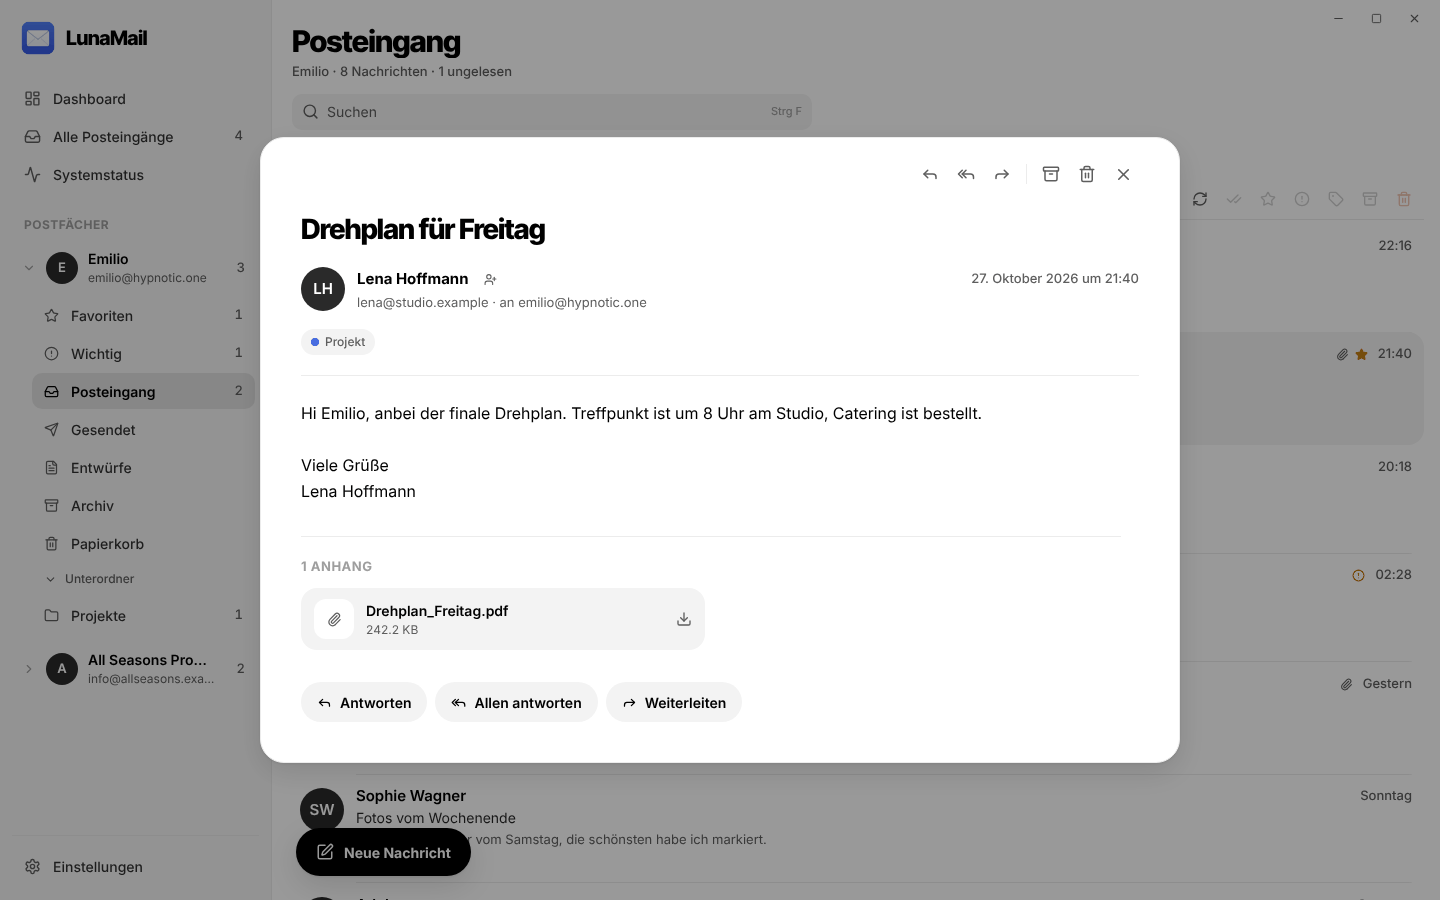
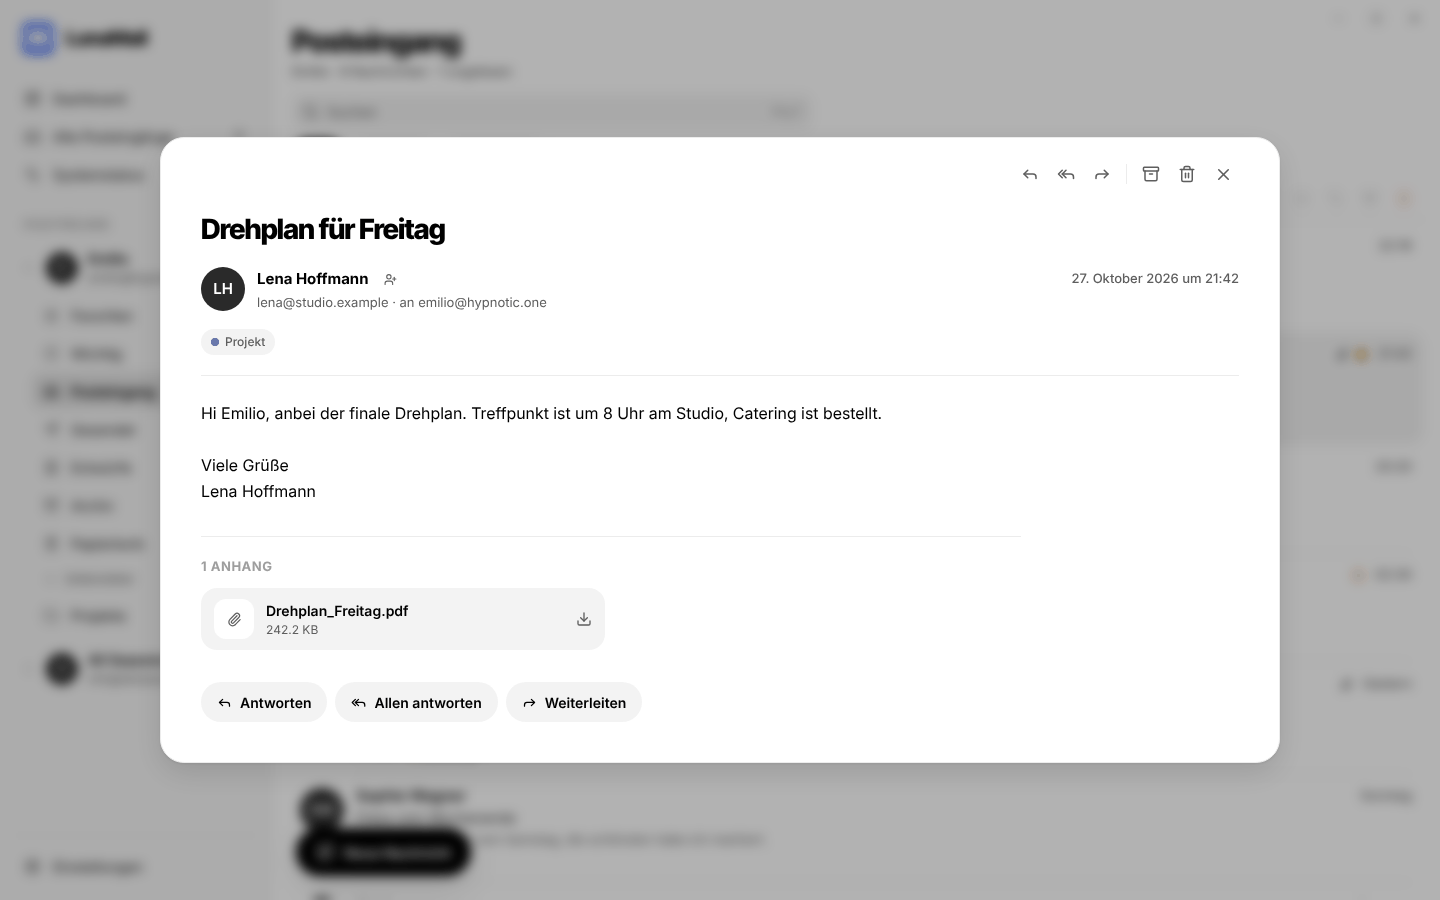
Desktop: Mail-Modal breiter, Hintergrund leicht unscharf
Claude-Session: https://claude.ai/code/session_015oPpCaztH1SDtHgZpMPuwL

diff --git a/src/components/MailReader.tsx b/src/components/MailReader.tsx
@@ -51,12 +51,12 @@ export function MailReader() {
   }
 
   return (
-    <div className="mail-reader-backdrop fixed inset-0 z-[60] flex items-center justify-center bg-scrim/40 p-6 sm:p-10" onClick={closeEmail}>
+    <div className="mail-reader-backdrop fixed inset-0 z-[60] flex items-center justify-center bg-scrim/30 p-6 backdrop-blur-[6px] sm:p-8" onClick={closeEmail}>
       <aside
         role="dialog"
         aria-modal="true"
         aria-label={selectedEmail.subject || "E-Mail"}
-        className="mail-reader-panel mail-scroll max-h-full w-[min(920px,100%)] overflow-y-auto rounded-3xl border border-line bg-canvas shadow-float"
+        className="mail-reader-panel mail-scroll max-h-full w-[min(1120px,100%)] overflow-y-auto rounded-3xl border border-line bg-canvas shadow-float"
         onClick={(event) => event.stopPropagation()}
       >
         <article className="w-full px-6 pb-10 pt-4 lg:px-10">
@@ -143,7 +143,7 @@ export function MailReader() {
           </section>
 
           {selectedEmail.attachments.length > 0 ? (
-            <section className="mt-8 max-w-[820px] border-t border-line pt-5">
+            <section className="mt-8 border-t border-line pt-5">
               <div className="mb-3 text-[13px] font-bold uppercase tracking-[0.04em] text-label-3">{selectedEmail.attachments.length === 1 ? "1 Anhang" : `${selectedEmail.attachments.length} Anhänge`}</div>
               <div className="grid gap-3 sm:grid-cols-2">
                 {selectedEmail.attachments.map((attachment) => (
